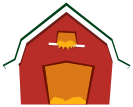
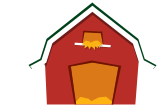
added the farm and a polygon for it, not used for now, fixed polygon def to load sprite atlas

diff --git a/libgdx-test-apps-core/src/main/java/com/gemserk/libgdx/tests/customsprite/PolygonDefinition.java b/libgdx-test-apps-core/src/main/java/com/gemserk/libgdx/tests/customsprite/PolygonDefinition.java
@@ -6,7 +6,9 @@ import java.io.InputStreamReader;
 
 import com.badlogic.gdx.files.FileHandle;
 import com.badlogic.gdx.graphics.g2d.Sprite;
+import com.badlogic.gdx.graphics.g2d.TextureAtlas.AtlasRegion;
 import com.badlogic.gdx.graphics.g2d.TextureRegion;
+import com.badlogic.gdx.graphics.g2d.TextureAtlas.AtlasSprite;
 import com.badlogic.gdx.utils.GdxRuntimeException;
 import com.badlogic.gdx.utils.IntArray;
 
@@ -164,12 +166,49 @@ public class PolygonDefinition {
 	}
 
 	private static void transformToRegionCoordinates(float[] texCoords, TextureRegion region) {
-		float uvWidth = region.getU2() - region.getU();
-		float uvHeight = region.getV2() - region.getV();
+		float u = region.getU();
+		float v = region.getV();
+		float u2 = region.getU2();
+		float v2 = region.getV2();
 
-		for (int i = 0; i < texCoords.length; i += 2) {
-			texCoords[i] = region.getU() + texCoords[i] * uvWidth;
-			texCoords[i + 1] = region.getV() + texCoords[i + 1] * uvHeight;
+		float uvWidth = u2 - u;
+		float uvHeight = v2 - v;
+
+		float offsetX = 0f;
+		float offsetY = 0f;
+
+		int textureWidth = region.getTexture().getWidth();
+		int textureHeight = region.getTexture().getHeight();
+
+		if (region instanceof AtlasSprite) {
+			AtlasSprite atlasSprite = (AtlasSprite) region;
+			AtlasRegion atlasRegion = atlasSprite.getAtlasRegion();
+
+			int width = atlasRegion.originalWidth;
+			int height = atlasRegion.originalHeight;
+
+			for (int i = 0; i < texCoords.length; i += 2) {
+				float tx = texCoords[i];
+				float ty = texCoords[i + 1];
+
+				float vx = tx * width;
+				float vy = ty * height;
+
+				float v_x = vx + region.getRegionX() - atlasRegion.offsetX;
+				float v_y = vy + region.getRegionY() - atlasRegion.offsetY;
+
+				float t_x = v_x / ((float) textureWidth);
+				float t_y = v_y / ((float) textureHeight);
+
+				texCoords[i] = t_x;
+				texCoords[i + 1] = t_y;
+			}
+
+		} else {
+			for (int i = 0; i < texCoords.length; i += 2) {
+				texCoords[i] = (u + texCoords[i] - offsetX) * uvWidth;
+				texCoords[i + 1] = (v + texCoords[i + 1] - offsetY) * uvHeight;
+			}
 		}
 	}
 

diff --git a/libgdx-test-apps-core/src/main/java/com/gemserk/libgdx/tests/customsprite/MeshWithDepthBufferTestScreen.java b/libgdx-test-apps-core/src/main/java/com/gemserk/libgdx/tests/customsprite/MeshWithDepthBufferTestScreen.java
@@ -83,13 +83,17 @@ public class MeshWithDepthBufferTestScreen extends TestScreen {
 		atlas = new TextureAtlas(Gdx.files.internal("data/images/polygon.atlas"));
 
 		Sprite wormSprite = atlas.createSprite("worm");
+		Sprite farmSprite = atlas.createSprite("farm");
 
 		texture = wormSprite.getTexture();
 
 		opaqueSprites = new ArrayList<MeshSprite>();
 		transparentSprites = new ArrayList<MeshSprite>();
 
-		insidePolygonDefinition = PolygonDefinition.loadPolygonDefinition(Gdx.files.internal("data/polygons/worm-inside"), wormSprite);
+		insidePolygonDefinition = PolygonDefinition.loadPolygonDefinition(Gdx.files.internal("data/polygons/worm-inside"), 
+				wormSprite);
+//		insidePolygonDefinition = PolygonDefinition.loadPolygonDefinition(Gdx.files.internal("data/polygons/farm.mesh"), 
+//				farmSprite);
 		borderPolygonDefinition = PolygonDefinition.loadPolygonDefinition(Gdx.files.internal("data/polygons/worm-border"), wormSprite);
 
 		generateElements(100);

diff --git a/libgdx-test-apps-core/src/test/java/com/gemserk/libgdx/tests/customsprite/PolygonDefinitionTest.java b/libgdx-test-apps-core/src/test/java/com/gemserk/libgdx/tests/customsprite/PolygonDefinitionTest.java
@@ -17,6 +17,8 @@ public class PolygonDefinitionTest {
 		};
 
 		short[] indices = { 0, 1, 2, 3, 4, 5 };
+		
+		// TEST WITH ONE VERTEX TWICE!!
 
 		PolygonDefinition.cleanIndices(vertices, indices);
 		PolygonDefinition.removeDuplicatedIndices(vertices, texCoords, indices);
